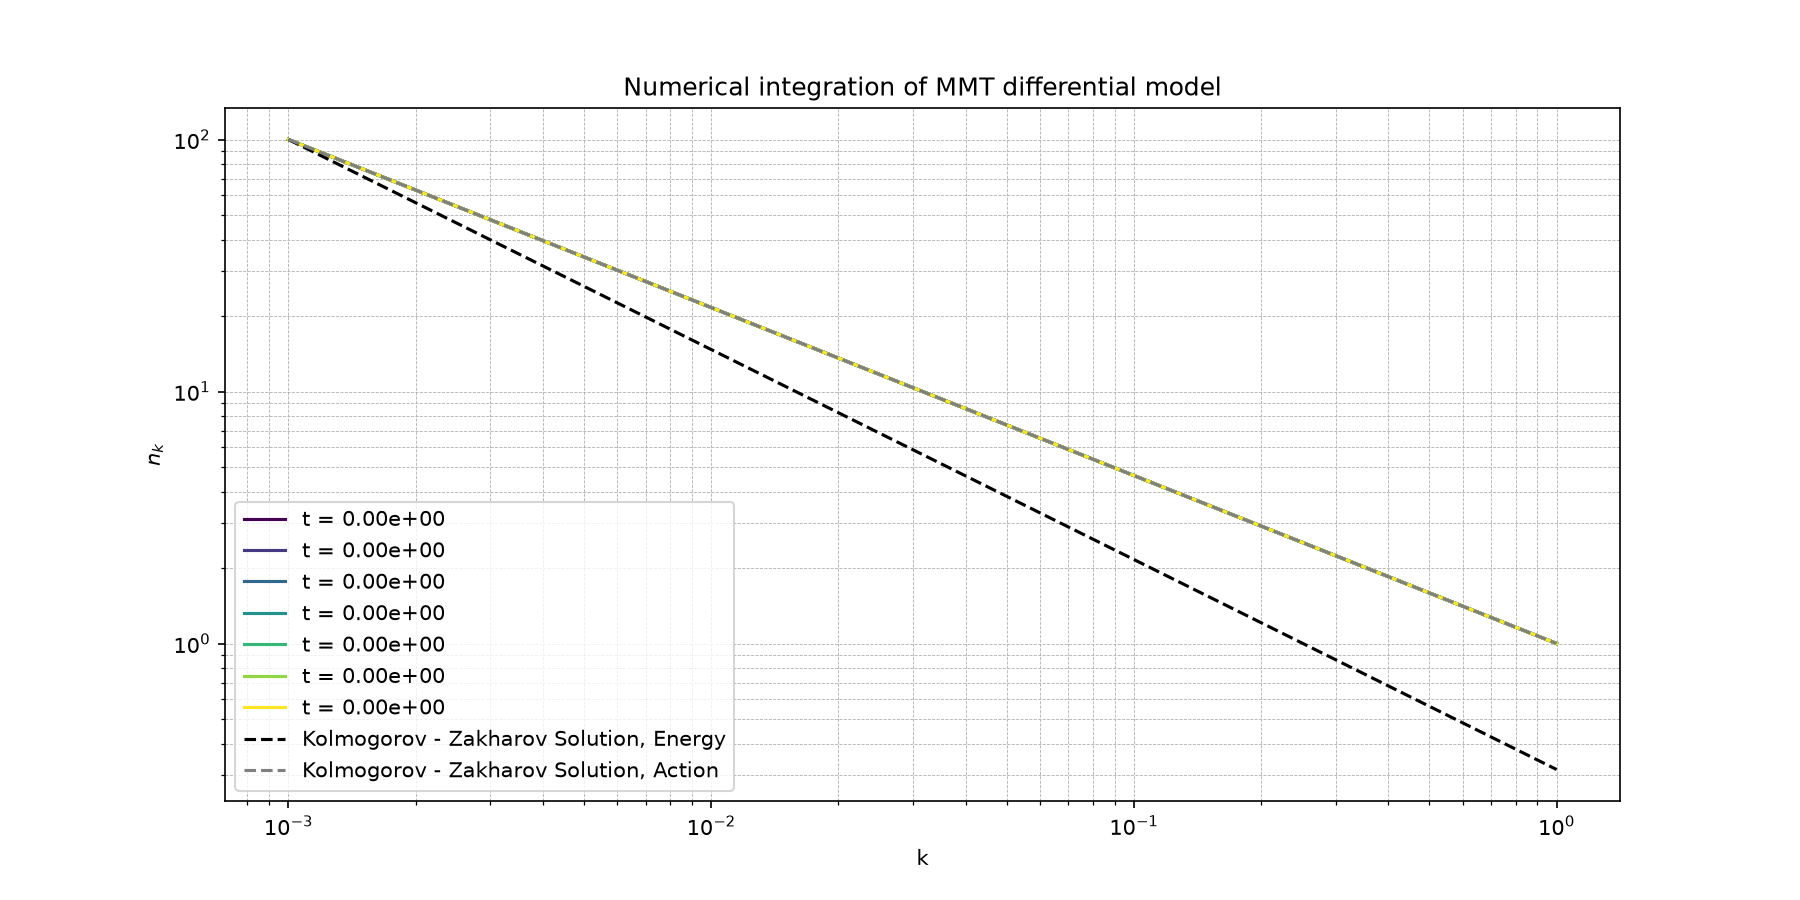
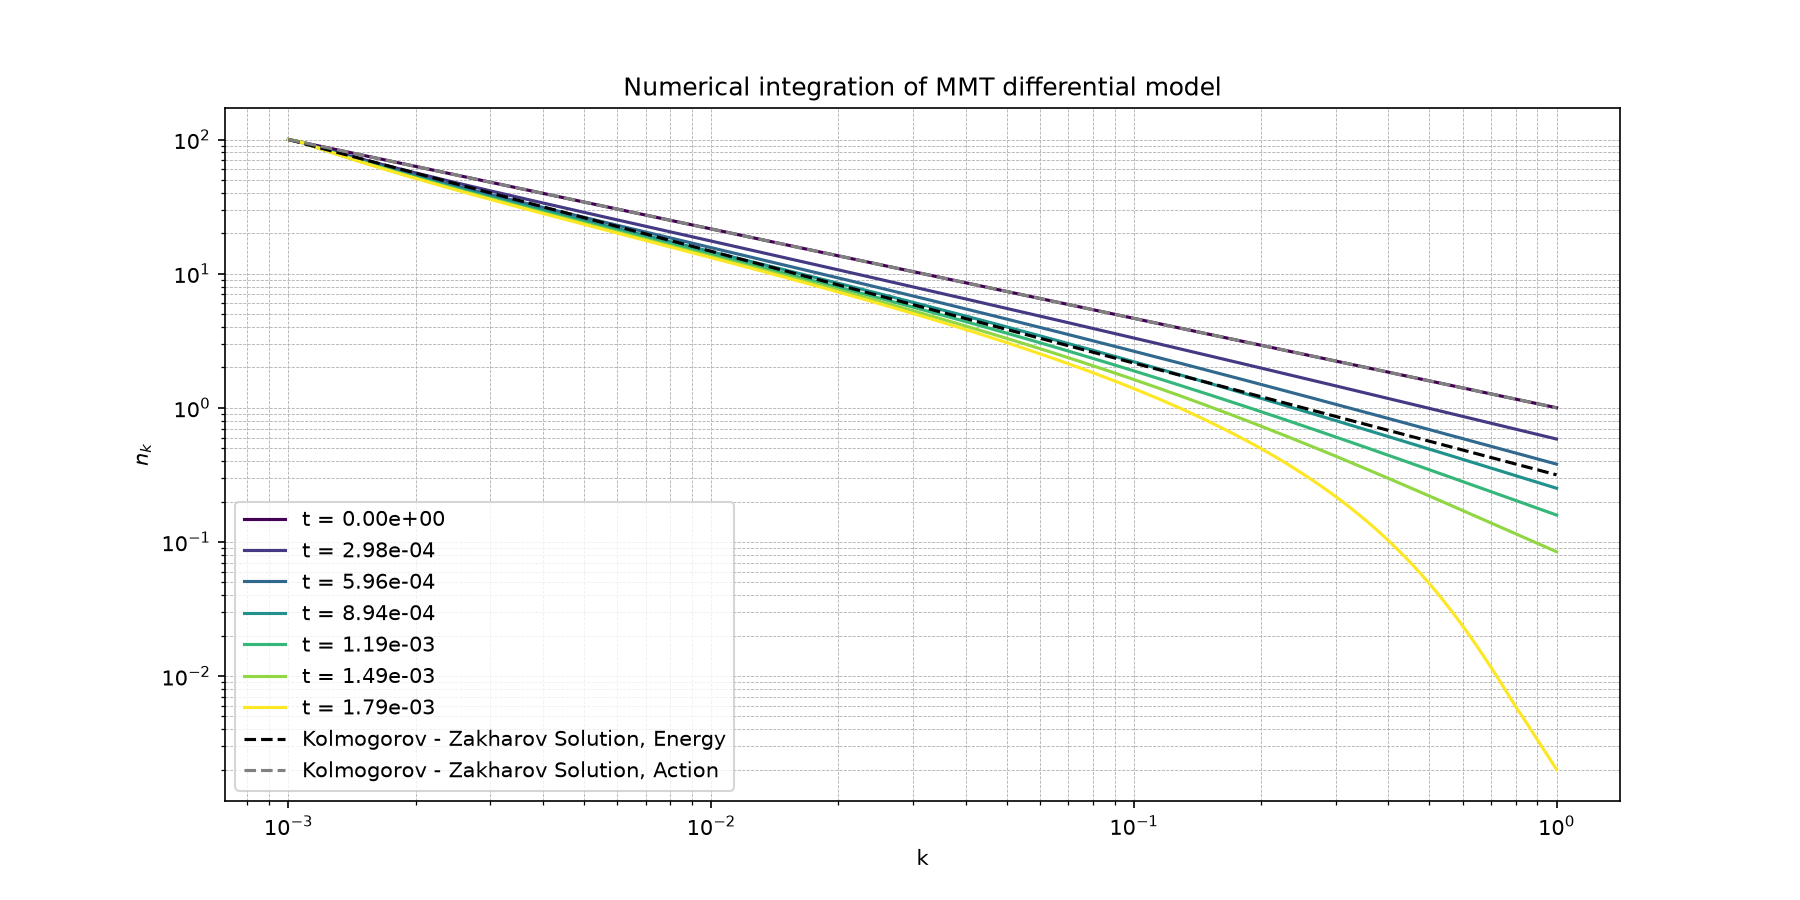
Update rhs function return value and adjust time step in main simulation

diff --git a/main_DAM.py b/main_DAM.py
@@ -27,7 +27,7 @@ print("\n")
 print("************************* Starting the simulation ************************* ")
 
 ts, ns = integrate_chunked(
-    rhs_action, n_k, (0.0, 1.0), dt_chunk=1e-8,
+    rhs, n_k, (0.0, 1.0), dt_chunk=1e-6,
     apply_bc_func=apply_bc,
     bc_args=(k, n_left_fix, 6, 15, 20),
     rhs_args=(k, n_left_fix, dlnk, eta1, eta2),

diff --git a/DAM.py b/DAM.py
@@ -100,7 +100,7 @@ def rhs_correct(t, n, k, n_left_fix, dlnk , eta1, eta2):
     dndt[:6] = 0.0
     dndt[-6:] = 0.0
 
-    return dndt
+    return dndt 
 
 def rhs_action(t, n, k, n_left_fix, dlnk , eta1, eta2):
     n = apply_bc(n, k, n_left_fix, buf_left = 6, buf_right = 6, fit_points = 4)
